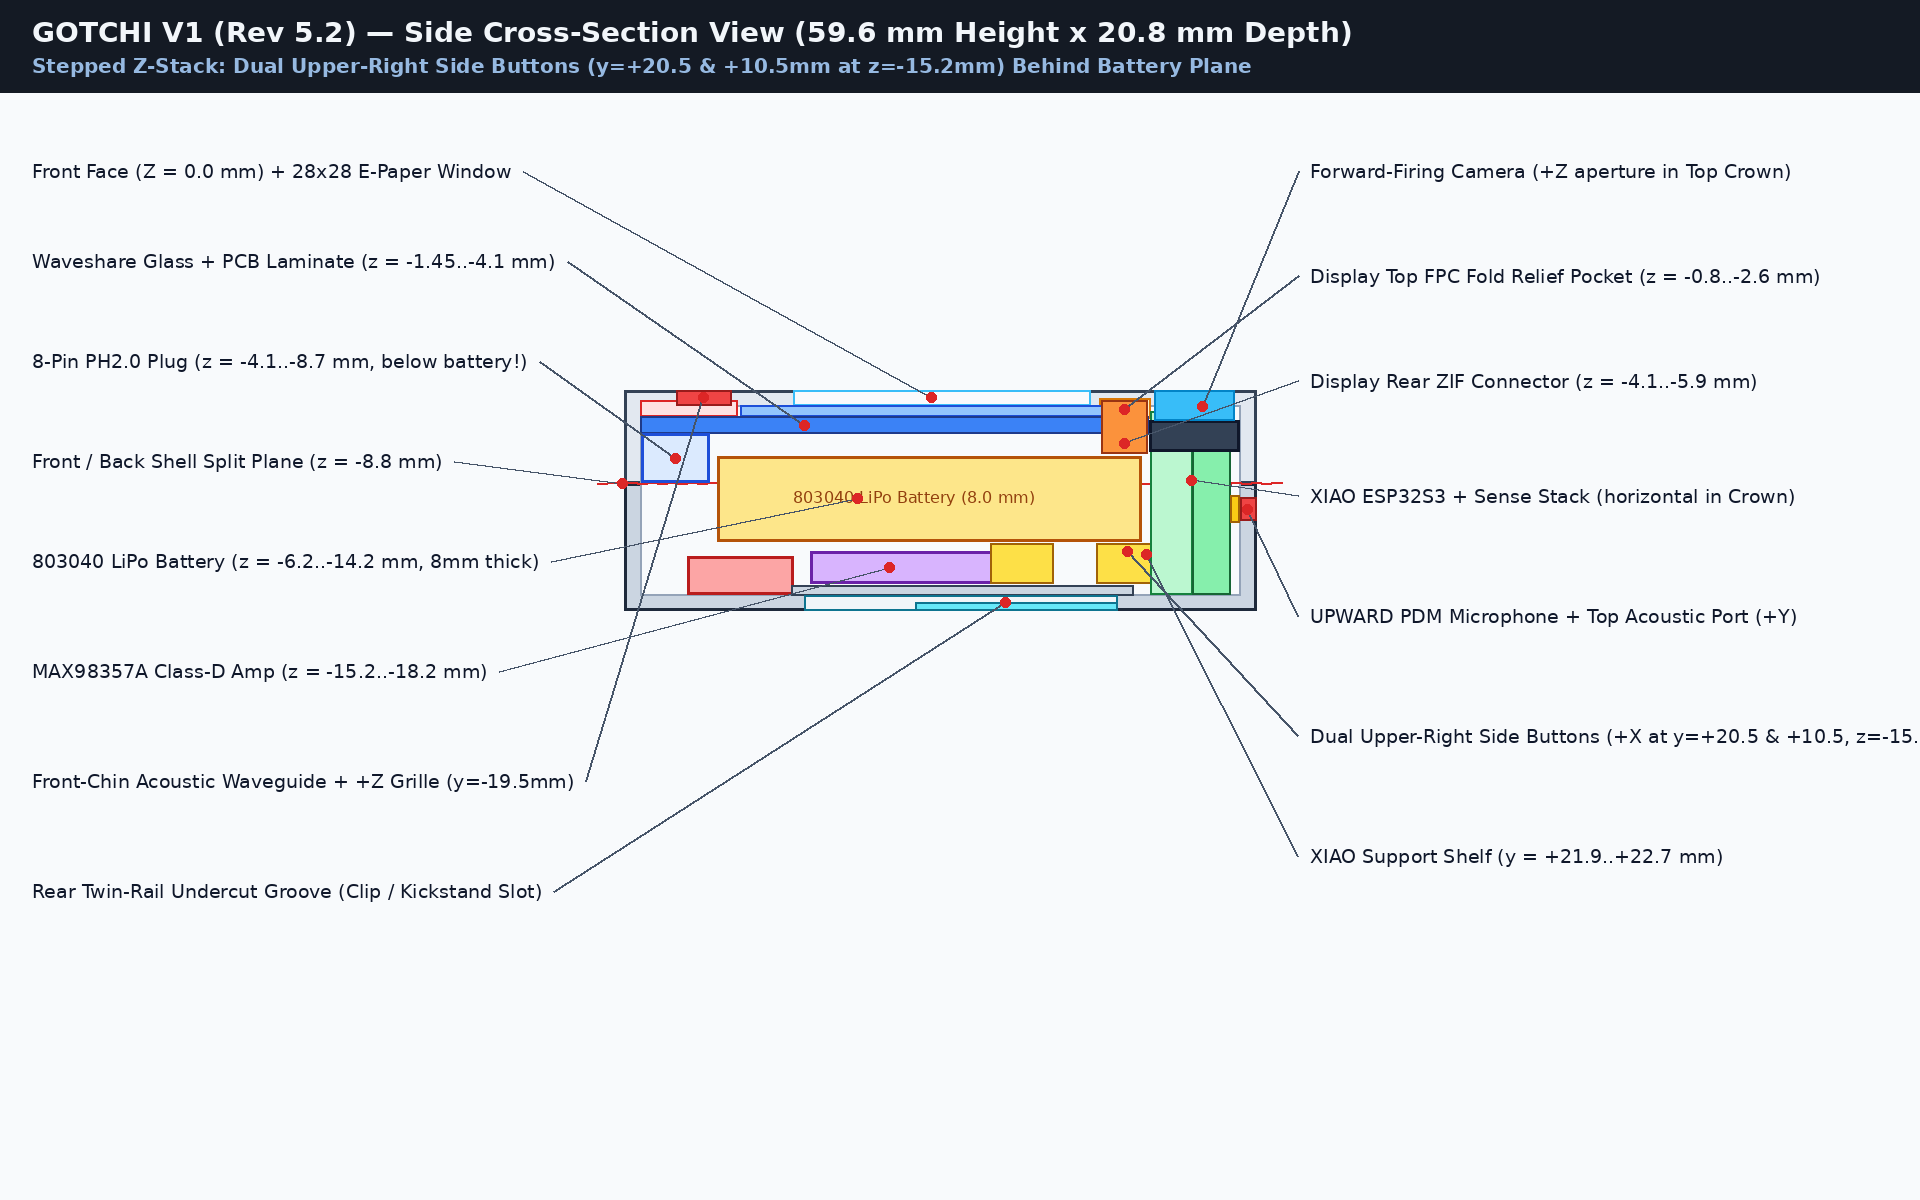
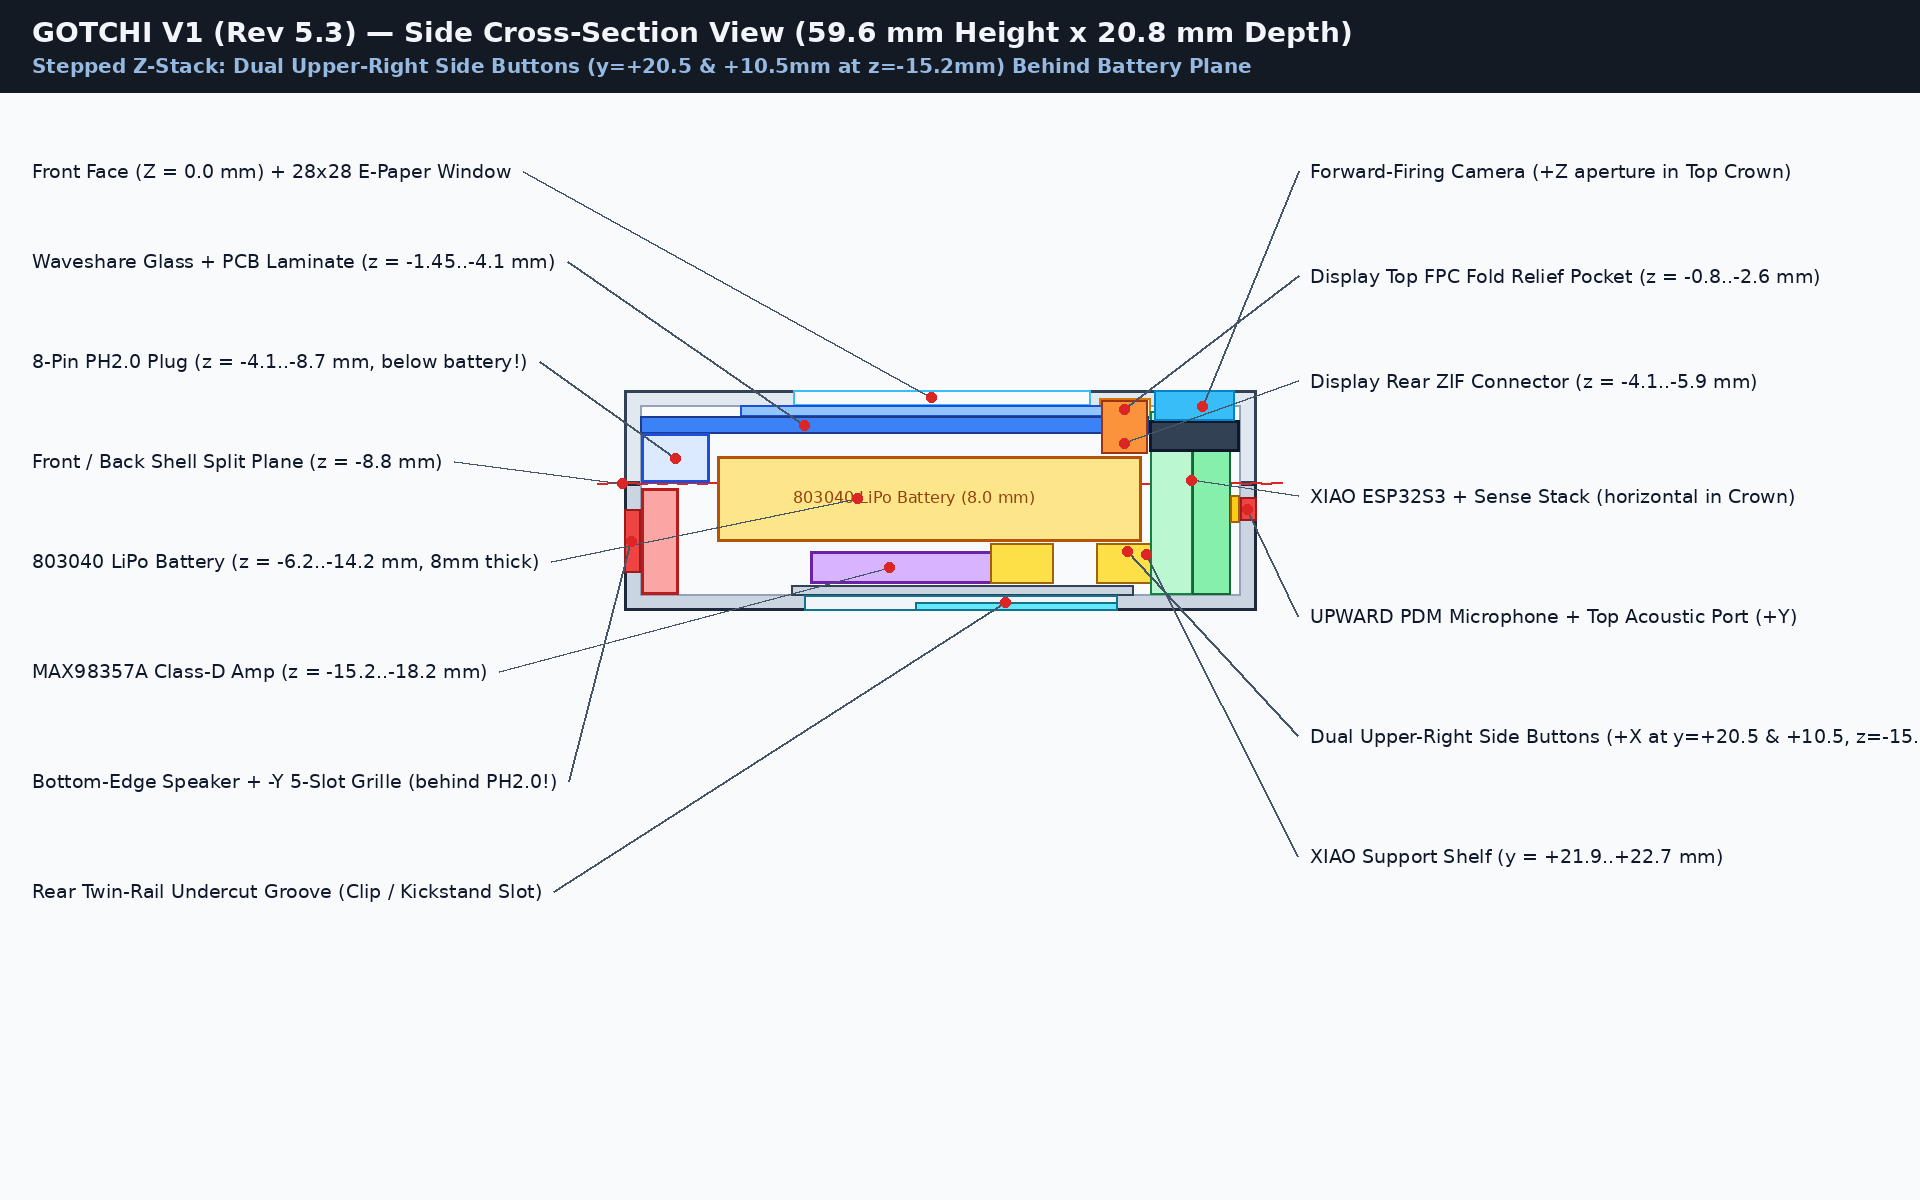
feat(cad): Rev 5.3 bottom-edge (-Y) direct-firing speaker grille behind PH2.0 plug

Changed region(s): [[0.3125, 0.4008, 0.4375, 0.4933], [0.0312, 0.6475, 0.2812, 0.6783], [0.3438, 0.3083, 0.4062, 0.37]]

diff --git a/cad/render_labeled.py b/cad/render_labeled.py
@@ -1,7 +1,7 @@
 #!/usr/bin/env python3
 """
 render_labeled.py: True Per-Pixel Z-Buffer 3D Studio Renderer, 360° Turntable GIF Generator,
-and Labeled Orthographic CAD Renderer for GOTCHI V1 (Rev 5.2).
+and Labeled Orthographic CAD Renderer for GOTCHI V1 (Rev 5.3).
 
 Why True Per-Pixel Z-Buffer instead of matplotlib Poly3DCollection:
   - Matplotlib's Poly3DCollection uses a whole-triangle Painter's Algorithm (sorting triangles
@@ -281,7 +281,7 @@ def generate_top_labeled(p, out_path):
     f_title, f_sub, f_lbl, f_sm = load_fonts()
 
     d.rectangle([0, 0, W, 92], fill=(20, 26, 36))
-    d.text((32, 16), "GOTCHI V1 (Rev 5.2) — Front / Top-Down Internal Packaging View (36.4 x 59.6 mm)", fill=(242, 246, 250), font=f_title)
+    d.text((32, 16), "GOTCHI V1 (Rev 5.3) — Front / Top-Down Internal Packaging View (36.4 x 59.6 mm)", fill=(242, 246, 250), font=f_title)
     d.text((32, 54), "Forward-Firing Screen & Camera (+Z)  |  Upward-Pointing PDM Mic (+Y)  |  Non-Cubic Multi-Tier Stack (20.8 mm thin)", fill=(150, 185, 225), font=f_sub)
 
     cx_px, cy_px = W // 2, 705
@@ -310,12 +310,10 @@ def generate_top_labeled(p, out_path):
     sx0, sx1 = p["spk_cx"] - p["spk_w"]/2, p["spk_cx"] + p["spk_w"]/2
     sy0, sy1 = p["spk_cy"] - p["spk_h"]/2, p["spk_cy"] + p["spk_h"]/2
     d.rectangle(rect_mm(sx0, sy0, sx1, sy1), fill=(252, 202, 202), outline=(185, 28, 28), width=3)
-    # Draw Front-Chin Acoustic Waveguide plenum + 5-slot Front-Firing Speaker Grille (+Z at y = fspk_cy)
-    wgx0, wgy0, wgx1, wgy1 = rect_mm(p["fspk_cx"] - p["waveguide_w"]/2, p["waveguide_y0"], p["fspk_cx"] + p["waveguide_w"]/2, p["waveguide_y1"])
-    draw_dashed_rect(d, wgx0, wgy0, wgx1, wgy1, (185, 28, 28), width=2, dash=6)
+    # Draw 5-slot Bottom-Edge Speaker Grille (-Y bottom wall at y = y_min to y_min + wall)
     for ix in range(-2, 3):
-        gx = p["fspk_cx"] + ix * 2.6
-        d.rectangle(rect_mm(gx - 0.5, p["fspk_cy"] - 2.6, gx + 0.5, p["fspk_cy"] + 2.6), fill=(153, 27, 27))
+        gx = p["spk_cx"] + ix * 2.6
+        d.rectangle(rect_mm(gx - 0.55, p["y_min"], gx + 0.55, p["y_min"] + p["wall"]), fill=(220, 38, 38), outline=(153, 27, 27), width=1)
 
     bx0, by0, bx1, by1 = rect_mm(-p["bat_w"]/2, p["bat_y0"], p["bat_w"]/2, p["bat_y1"])
     draw_dashed_rect(d, bx0, by0, bx1, by1, (217, 119, 6), width=4, dash=14)
@@ -374,7 +372,7 @@ def generate_top_labeled(p, out_path):
         ("BTN_TOP: Voice / Live (+X upper-right side, y=+20.5mm)", pt(hw, p["ptt_cy"]), "R", 385),
         ("BTN_BOT: Camera / Burst (+X upper-right side, y=+10.5mm)", pt(hw, p["snap_cy"]), "R", 505),
         ("Waveshare 1.54\" V2 PCB (33x48mm, standoffs removed)", pt(16.5, -2.0), "R", 625),
-        ("Front-Firing Speaker + Chin Waveguide Grille (+Z)", pt(p["fspk_cx"] + 4.5, p["fspk_cy"]), "R", 785),
+        ("Bottom-Edge Speaker (15x10x3.5mm) + -Y 5-Slot Grille", pt(p["spk_cx"] + 5.2, p["y_min"] + 0.7), "R", 785),
         ("Open Tolerance-Safe Rear Bay (PSA / Foam Tape Mount)", pt(10.0, -16.0), "R", 945),
     ]
 
@@ -402,7 +400,7 @@ def generate_side_labeled(p, out_path):
     f_title, f_sub, f_lbl, f_sm = load_fonts()
 
     d.rectangle([0, 0, W, 92], fill=(20, 26, 36))
-    d.text((32, 16), "GOTCHI V1 (Rev 5.2) — Side Cross-Section View (59.6 mm Height x 20.8 mm Depth)", fill=(242, 246, 250), font=f_title)
+    d.text((32, 16), "GOTCHI V1 (Rev 5.3) — Side Cross-Section View (59.6 mm Height x 20.8 mm Depth)", fill=(242, 246, 250), font=f_title)
     d.text((32, 54), "Stepped Z-Stack: Dual Upper-Right Side Buttons (y=+20.5 & +10.5mm at z=-15.2mm) Behind Battery Plane", fill=(150, 185, 225), font=f_sub)
 
     cy_px = 910
@@ -426,9 +424,8 @@ def generate_side_labeled(p, out_path):
     draw_dashed_rect(d, sx0, sy0, sx1, sy1, (220, 38, 38), width=2, dash=10)
 
     d.rectangle(rect_yz(p["win_cy"] - p["win_h"]/2, -p["front_wall"], p["win_cy"] + p["win_h"]/2, 0.0), fill=(248, 250, 252), outline=(56, 189, 248), width=2)
-    # Front-Chin Acoustic Waveguide plenum (z = -2.45..-0.9 mm) & +Z Front Speaker Grille (y = fspk_cy, z = -1.4..0.0 mm)
-    d.rectangle(rect_yz(p["waveguide_y0"], -2.45, p["waveguide_y1"], -0.9), fill=(254, 226, 226), outline=(220, 38, 38), width=2)
-    d.rectangle(rect_yz(p["fspk_cy"] - 2.6, -p["front_wall"], p["fspk_cy"] + 2.6, 0.0), fill=(239, 68, 68), outline=(153, 27, 27), width=2)
+    # Bottom-Edge Speaker Grille slot in -Y bottom wall (y = y_min..y_min+wall, z = -17.2..-11.2 mm, directly in front of speaker!)
+    d.rectangle(rect_yz(p["y_min"], p["spk_grille_cz"] - 3.0, p["y_min"] + p["wall"], p["spk_grille_cz"] + 3.0), fill=(239, 68, 68), outline=(153, 27, 27), width=2)
     d.rectangle(rect_yz(p["disp_fpc_y0"] - 0.2, -2.6, p["disp_fpc_y1"] + 0.2, -0.8), fill=(254, 243, 199), outline=(217, 119, 6), width=2)
 
     d.rectangle(rect_yz(p["disp_glass_y0"], p["disp_glass_z1"], p["disp_glass_y1"], p["disp_glass_z0"]), fill=(147, 197, 253), outline=(29, 78, 216), width=2)
@@ -464,7 +461,7 @@ def generate_side_labeled(p, out_path):
         ("Front / Back Shell Split Plane (z = -8.8 mm)", pt(-27.2, -8.8), "L", 450),
         ("803040 LiPo Battery (z = -6.2..-14.2 mm, 8mm thick)", pt(-5.0, -10.2), "L", 550),
         ("MAX98357A Class-D Amp (z = -15.2..-18.2 mm)", pt(-2.0, -16.7), "L", 660),
-        ("Front-Chin Acoustic Waveguide + +Z Grille (y=-19.5mm)", pt(p["fspk_cy"], -0.7), "L", 770),
+        ("Bottom-Edge Speaker + -Y 5-Slot Grille (behind PH2.0!)", pt(p["y_min"] + 0.7, p["spk_grille_cz"]), "L", 770),
         ("Rear Twin-Rail Undercut Groove (Clip / Kickstand Slot)", pt(9.0, -20.0), "L", 880),
 
         ("Forward-Firing Camera (+Z aperture in Top Crown)", pt(27.5, -1.5), "R", 160),
@@ -520,7 +517,7 @@ def generate_turntable_gif(assembled_scene, open_scene, out_gif_path, n_frames=3
         canvas.paste(im_right, (460, 76))
         d = ImageDraw.Draw(canvas)
         d.line([(460, 76), (460, 576)], fill=(45, 55, 72), width=2)
-        d.text((22, 12), "GOTCHI V1 (Rev 5.2) — 36.4 x 59.6 x 20.8 mm (Per-Pixel Z-Buffer 360° Turntable)", fill=(242, 246, 250), font=f_sub)
+        d.text((22, 12), "GOTCHI V1 (Rev 5.3) — 36.4 x 59.6 x 20.8 mm (Per-Pixel Z-Buffer 360° Turntable)", fill=(242, 246, 250), font=f_sub)
         d.text((22, 42), "Left: Assembled Case (Dual Upper-Right Side Buttons)   |   Right: Internal Non-Cubic 3D Stack", fill=(148, 182, 224), font=f_sm)
 
         # Quantize with adaptive palette for clean GIF playback
@@ -608,7 +605,7 @@ def main():
     im = rasterize_scene_zbuffer(assembled_scene, elev_deg=24, azim_deg=35, width=900, height=820, ssaa=2)
     save_titled_render(
         im, os.path.join(ren_dir, "front_iso.png"),
-        "GOTCHI V1 (Rev 5.2) — Front-Right Isometric",
+        "GOTCHI V1 (Rev 5.3) — Front-Right Isometric",
         "36.4 x 59.6 x 20.8 mm | Dual Upper-Right Side Buttons (+X) | Upward PDM Mic (+Y)"
     )
 
@@ -616,7 +613,7 @@ def main():
     im = rasterize_scene_zbuffer(assembled_scene, elev_deg=24, azim_deg=145, width=900, height=820, ssaa=2)
     save_titled_render(
         im, os.path.join(ren_dir, "back_iso.png"),
-        "GOTCHI V1 (Rev 5.2) — Back Isometric",
+        "GOTCHI V1 (Rev 5.3) — Back Isometric",
         "Flush Twin-Rail Slide-In Groove (Clip / Kickstand) | Screwless PSA Seam | 100% Sealed Back Wall"
     )
 
@@ -624,15 +621,15 @@ def main():
     im = rasterize_scene_zbuffer(assembled_scene, elev_deg=0, azim_deg=0, width=900, height=820, ssaa=2)
     save_titled_render(
         im, os.path.join(ren_dir, "front_straight.png"),
-        "GOTCHI V1 (Rev 5.2) — Front Orthographic",
-        "Slim 4.2 mm Side Bezels | 28x28 mm E-Paper Window | Front-Chin 5-Slot Speaker Grille (+Z)"
+        "GOTCHI V1 (Rev 5.3) — Front Orthographic",
+        "Slim 4.2 mm Side Bezels | 28x28 mm E-Paper Window | Bottom-Edge 5-Slot Speaker Grille (-Y)"
     )
 
     # 4. back_layout.png
     im = rasterize_scene_zbuffer(open_scene, elev_deg=26, azim_deg=35, width=900, height=820, ssaa=2)
     save_titled_render(
         im, os.path.join(ren_dir, "back_layout.png"),
-        "GOTCHI V1 (Rev 5.2) — Internal 3D Multi-Tier Packaging",
+        "GOTCHI V1 (Rev 5.3) — Internal 3D Multi-Tier Packaging",
         "Yellow: Dual Upper-Right Side Buttons (+X) | Blue: Display | Green: XIAO+Mic | Gold: 803040 LiPo"
     )
 
@@ -640,7 +637,7 @@ def main():
     im = rasterize_scene_zbuffer(exploded_scene, elev_deg=22, azim_deg=38, width=900, height=820, ssaa=2)
     save_titled_render(
         im, os.path.join(ren_dir, "exploded.png"),
-        "GOTCHI V1 (Rev 5.2) — Exploded Multi-Tier Stack",
+        "GOTCHI V1 (Rev 5.3) — Exploded Multi-Tier Stack",
         "Front Bezel -> Display + Forward Camera -> XIAO + 803040 Battery -> Amp + Speaker + Side Buttons -> Back Shell"
     )
 

diff --git a/cad/build_case.py b/cad/build_case.py
@@ -1,12 +1,12 @@
 #!/usr/bin/env python3
 """
-GOTCHI V1 Printable Enclosure — Revision 5.2 (PSA / Snap-Rabbet Seam, Compact 59.6mm Y & Open Tolerance-Safe Bays)
+GOTCHI V1 Printable Enclosure — Revision 5.3 (PSA / Snap-Rabbet Seam, Compact 59.6mm Y & Open Tolerance-Safe Bays)
 ==================================================================================================================
 Outer envelope: 36.4 x 59.6 x 20.8 mm (44.5 cm^3 — 43.9% smaller volume than Rev 1's
 38.0 x 72.0 x 29.0 mm / 79.3 cm^3 box, 8.2 mm thinner in Z, 13.2 mm shorter in Y,
 with slim 4.2 mm side bezels around the 28.0 x 28.0 mm active screen window).
 
-Key Architectural & Packaging Improvements (Rev 5.2):
+Key Architectural & Packaging Improvements (Rev 5.3):
 1. Screwless Perimeter Rabbet / PSA Closure (Option B):
    - Eliminates all 4 corner M2 screw bosses and counterbores, reclaiming corner volume and
      completely eliminating boss overlaps with the camera and speaker.
@@ -130,19 +130,18 @@ P = dict(
     amp_z0=-15.2,
     amp_z1=-18.2,
 
-    spk_w=15.0,
-    spk_h=10.0,
-    spk_d=3.5,
-    spk_cx=0.0,     # Centered horizontally in lower bay (x = -7.5 to +7.5 mm)
-    spk_cy=-16.0,   # y = -21.0 to -11.0 mm (fires forward +Z into lower acoustic waveguide)
-    spk_z0=-15.7,
+    # Bottom-Edge Direct-Firing Speaker (-Y bottom wall, behind PH2.0 plug z=-4.1..-8.7 and below battery y=-18.2):
+    #   - 15.0 mm width along X (x = -7.5 to +7.5 mm)
+    #   - 3.5 mm thickness along Y (y = -25.4 to -21.9 mm, flush against bottom inner wall y = -25.5 mm)
+    #   - 10.0 mm height along Z (z = -9.2 to -19.2 mm, inside back shell behind PH2.0 plug)
+    spk_w=15.0,     # along X
+    spk_h=3.5,      # along Y (thickness into cavity from bottom wall)
+    spk_d=10.0,     # along Z (spans z = -9.2 to -19.2 mm)
+    spk_cx=0.0,
+    spk_cy=-23.65,  # y = -25.4 to -21.9 mm
+    spk_z0=-9.2,
     spk_z1=-19.2,
-    # Front-Chin Acoustic Waveguide & Forward Speaker Grille (+Z front bezel below screen window)
-    fspk_cx=0.0,
-    fspk_cy=-19.5,  # Centered in lower front chin bezel (below screen window y=-11.0 and glass y=-16.0)
-    waveguide_w=13.6,
-    waveguide_y0=-25.5,
-    waveguide_y1=-16.3,
+    spk_grille_cz=-14.2,
 
     # 6. Controls:
     # Both BTN_TOP (PTT/Voice) and BTN_BOT (Camera/Burst) stacked on the Upper-Right Side Wall (+X wall)
@@ -277,21 +276,7 @@ def build_front_shell():
     # Forward-firing Camera Lens Aperture (+Z front face, at x=cam_cx, y=cam_cy)
     cam_cut = make_cyl_z(p['cam_lens_d'] / 2.0, -3.0, 1.0, cx=p['cam_cx'], cy=p['cam_cy'])
 
-    # Front-Chin Acoustic Waveguide plenum on underside of lower front bezel (routes sound around bottom PCB edge to +Z)
-    wg_plenum = make_box(
-        p['fspk_cx'] - p['waveguide_w'] / 2.0, p['fspk_cx'] + p['waveguide_w'] / 2.0,
-        p['waveguide_y0'], p['waveguide_y1'],
-        -2.45, -0.9
-    )
-    # 5-slot Front-Firing Speaker Grille in lower front bezel (+Z face at y = fspk_cy)
-    front_grille_cuts = [wg_plenum]
-    for ix in range(-2, 3):
-        gx = p['fspk_cx'] + ix * 2.6
-        front_grille_cuts.append(
-            make_box(gx - 0.6, gx + 0.6, p['fspk_cy'] - 2.8, p['fspk_cy'] + 2.8, -2.5, 0.5)
-        )
-
-    part = trimesh.boolean.difference([part, rabbet_cut, win_cut, fpc_cut, cam_cut] + front_grille_cuts, engine='manifold')
+    part = trimesh.boolean.difference([part, rabbet_cut, win_cut, fpc_cut, cam_cut], engine='manifold')
     return part
 
 
@@ -346,7 +331,14 @@ def build_back_shell():
         p['sw_cz'] - p['sw_slot_z'] / 2.0, p['sw_cz'] + p['sw_slot_z'] / 2.0
     ))
 
-    # 7. Back wall behind speaker is now 100% solid & sealed (reflects acoustic energy forward into Front-Chin Waveguide)
+    # 7. Bottom-Edge 5-Slot Speaker Grille (-Y bottom wall at x = -5.2..+5.2 mm, z = -17.2..-11.2 mm)
+    for ix in range(-2, 3):
+        gx = p['spk_cx'] + ix * 2.6
+        cutters.append(make_box(
+            gx - 0.6, gx + 0.6,
+            p['y_min'] - 0.5, p['y_min'] + p['wall'] + 0.5,
+            p['spk_grille_cz'] - 3.0, p['spk_grille_cz'] + 3.0
+        ))
 
     part = trimesh.boolean.union([part] + adds, engine='manifold')
     part = trimesh.boolean.difference([part] + cutters, engine='manifold')
